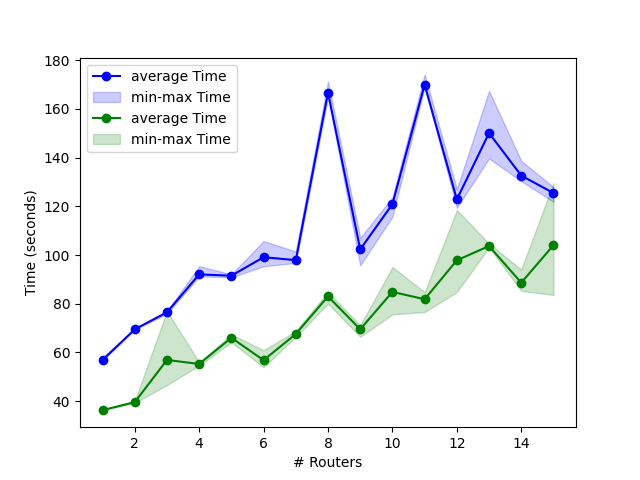
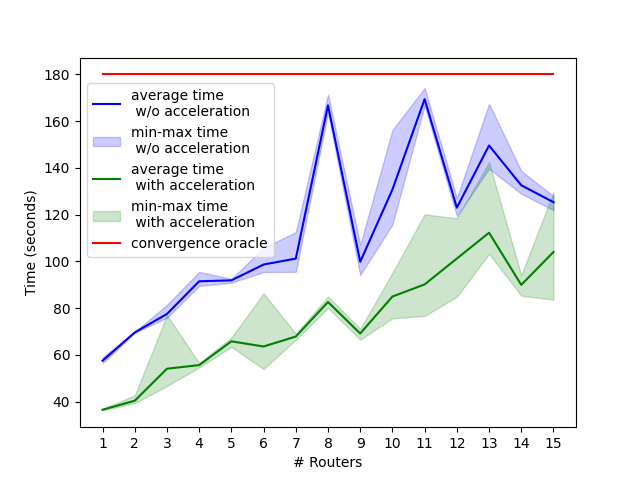
[evaluate] convergeTime doing

diff --git a/evaluate/convergeTime/draw.py b/evaluate/convergeTime/draw.py
@@ -1,35 +1,69 @@
 import matplotlib.pyplot as plt
 import numpy as np
+import os
+from os import path
+
+old_max = [0] * 15
+old_min = [100000] * 15
+old_ave = [0] * 15
+new_max = [0] * 15
+new_min = [100000] * 15
+new_ave = [0] * 15
+s = 0
+for file_name in os.listdir("/home/binshui/topo-fuzz/evaluate/convergeTime"):
+    if "data" in file_name and "txt" in file_name:
+        with open(path.join("/home/binshui/topo-fuzz/evaluate/convergeTime", file_name)) as fp:
+            s += 1
+            for i in range(0, 15):
+                st = fp.readline()
+                old = eval(st.split()[0])
+                new = eval(st.split()[1])
+                old_max[i] = max(old, old_max[i])
+                old_min[i] = min(old, old_min[i])
+                new_max[i] = max(new, new_max[i])
+                new_min[i] = min(new, new_min[i])
+                old_ave[i] += old
+                new_ave[i] += new
+
+old_ave = [ x / s for x in old_ave]
+new_ave = [ x / s for x in new_ave]
+
+line = [180] * 15
 
 # 示例数据
-y_max = [57.80657339, 69.56292534, 76.92910123, 95.46807003, 92.07082725, 105.7555771, 101.4376967, 171.3718381, 107.0808733, 123.7524199, 174.1986735, 127.0516717, 167.4439015, 138.6839726, 127.9131517]  # x轴数据
-y_min = [56.5365417, 69.39407015, 75.8545208, 91.22194004, 90.86493564, 95.39927602, 96.80461621, 165.0227177, 95.72830582, 115.7259135, 169.0809958, 119.4244812, 139.6700342, 130.3188691, 121.8991098]
+# y_max = [57.80657339, 69.56292534, 76.92910123, 95.46807003, 92.07082725, 105.7555771, 101.4376967, 171.3718381, 107.0808733, 123.7524199, 174.1986735, 127.0516717, 167.4439015, 138.6839726, 127.9131517]  # x轴数据
+# y_min = [56.5365417, 69.39407015, 75.8545208, 91.22194004, 90.86493564, 95.39927602, 96.80461621, 165.0227177, 95.72830582, 115.7259135, 169.0809958, 119.4244812, 139.6700342, 130.3188691, 121.8991098]
 x = list(range(1, 16))
 
-# 计算均值
-y_mean = [56.92275381, 69.48777699, 76.50851202, 92.05782382, 91.5172139, 99.10957845, 97.90858356, 166.6724117, 102.337654, 120.897657, 170.0186621, 122.8375781, 150.1246681, 132.6328754, 125.4738121]
+# # 计算均值
+# y_mean = [56.92275381, 69.48777699, 76.50851202, 92.05782382, 91.5172139, 99.10957845, 97.90858356, 166.6724117, 102.337654, 120.897657, 170.0186621, 122.8375781, 150.1246681, 132.6328754, 125.4738121]
 
-y1_max = [36.3701117, 40.03208137, 76.99437165, 55.97672176, 67.39711475, 60.93855, 68.826545, 84.85700727, 71.14668226, 95.06840062, 84.78187227, 118.4262335, 104.7446589, 94.05964375, 129.5928342]
-y1_min = [36.19565558, 39.33017135, 46.63418937, 54.60919523, 64.21081114, 53.88199759, 66.46981597, 80.05897832, 66.4642241, 75.60619736, 76.64544082, 84.79382253, 103.166909, 85.29944205, 83.59878564]
-y1_mean = [36.29007308, 39.58198063, 56.91003482, 55.27215393, 66.02057767, 56.82138379, 67.57739449, 83.02431703, 69.50848309, 84.8662804, 81.84855858, 97.83841681, 103.7008288, 88.63986564, 104.0445371]
+# y1_max = [36.3701117, 40.03208137, 76.99437165, 55.97672176, 67.39711475, 60.93855, 68.826545, 84.85700727, 71.14668226, 95.06840062, 84.78187227, 118.4262335, 104.7446589, 94.05964375, 129.5928342]
+# y1_min = [36.19565558, 39.33017135, 46.63418937, 54.60919523, 64.21081114, 53.88199759, 66.46981597, 80.05897832, 66.4642241, 75.60619736, 76.64544082, 84.79382253, 103.166909, 85.29944205, 83.59878564]
+# y1_mean = [36.29007308, 39.58198063, 56.91003482, 55.27215393, 66.02057767, 56.82138379, 67.57739449, 83.02431703, 69.50848309, 84.8662804, 81.84855858, 97.83841681, 103.7008288, 88.63986564, 104.0445371]
 # 创建折线图
-plt.plot(x, y_mean, label='average Time', color='b', marker='o')
-plt.fill_between(x, y_min, y_max, color='b', alpha=0.2, label='min-max Time')  # 填充最大值和最小值之间的区域
+plt.plot(x, old_ave, label='average time \n w/o acceleration', color='b')
+plt.fill_between(x, old_min, old_max, color='b', alpha=0.2, label='min-max time \n w/o acceleration')  # 填充最大值和最小值之间的区域
 
-plt.plot(x, y1_mean, label='average Time', color='g', marker='o')
+plt.plot(x, new_ave, label='average time \n with acceleration', color='g')
 
-plt.fill_between(x, y1_min, y1_max, color='g', alpha=0.2, label='min-max Time')  # 填充最大值和最小值之间的区域
+plt.fill_between(x, new_min, new_max, color='g', alpha=0.2, label='min-max time \n with acceleration')  # 填充最大值和最小值之间的区域
 
 
+plt.plot(x, line, label='convergence oracle', color='r')
+
+plt.legend(loc='upper left')
 
 # 添加标题和标签
 plt.xlabel('# Routers')
 plt.ylabel('Time (seconds)')
 
 # 显示图例
-plt.legend()
+plt.legend(loc='upper left', bbox_to_anchor=(0, 0.95))
 
+plt.xticks(np.arange(1, 16))
 # 展示图形
+
 plt.show()
 
 

diff --git a/evaluate/convergeTime/get_data.py b/evaluate/convergeTime/get_data.py
@@ -25,6 +25,6 @@ for test_name in os.listdir(confDir):
         else:
             res[r_num]["after"] = r["test"]["total_test_time"]
 res = {key:res[key] for key in sorted(res.keys())}
-with open(path.join(up(path.abspath(__file__ )), "data2.txt"), "w") as fp:
+with open(path.join(up(path.abspath(__file__ )), "data4.txt"), "w") as fp:
     for r in res.keys():
         fp.write(str(res[r]["before"]) + '\t' + str(res[r]["after"]) + "\n")
